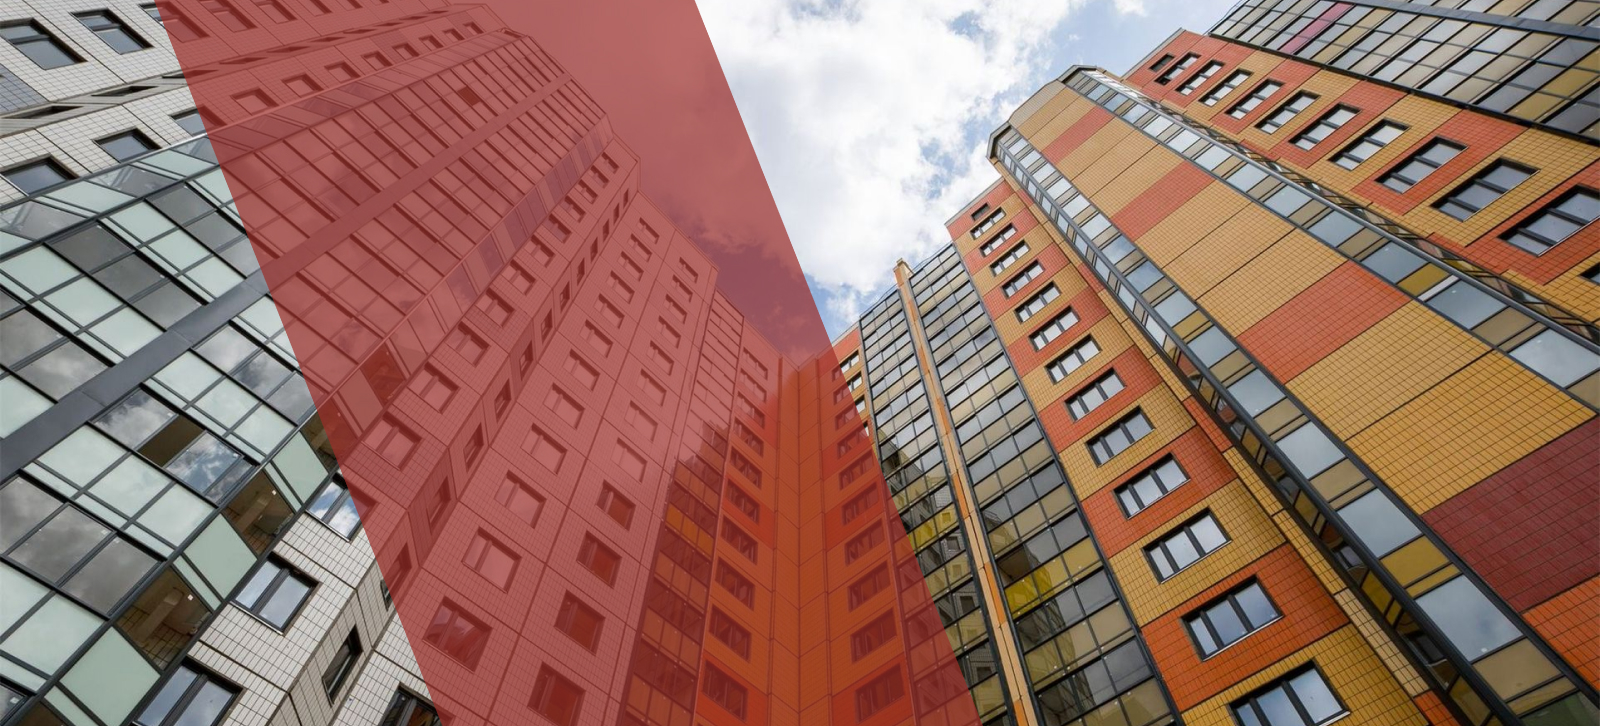
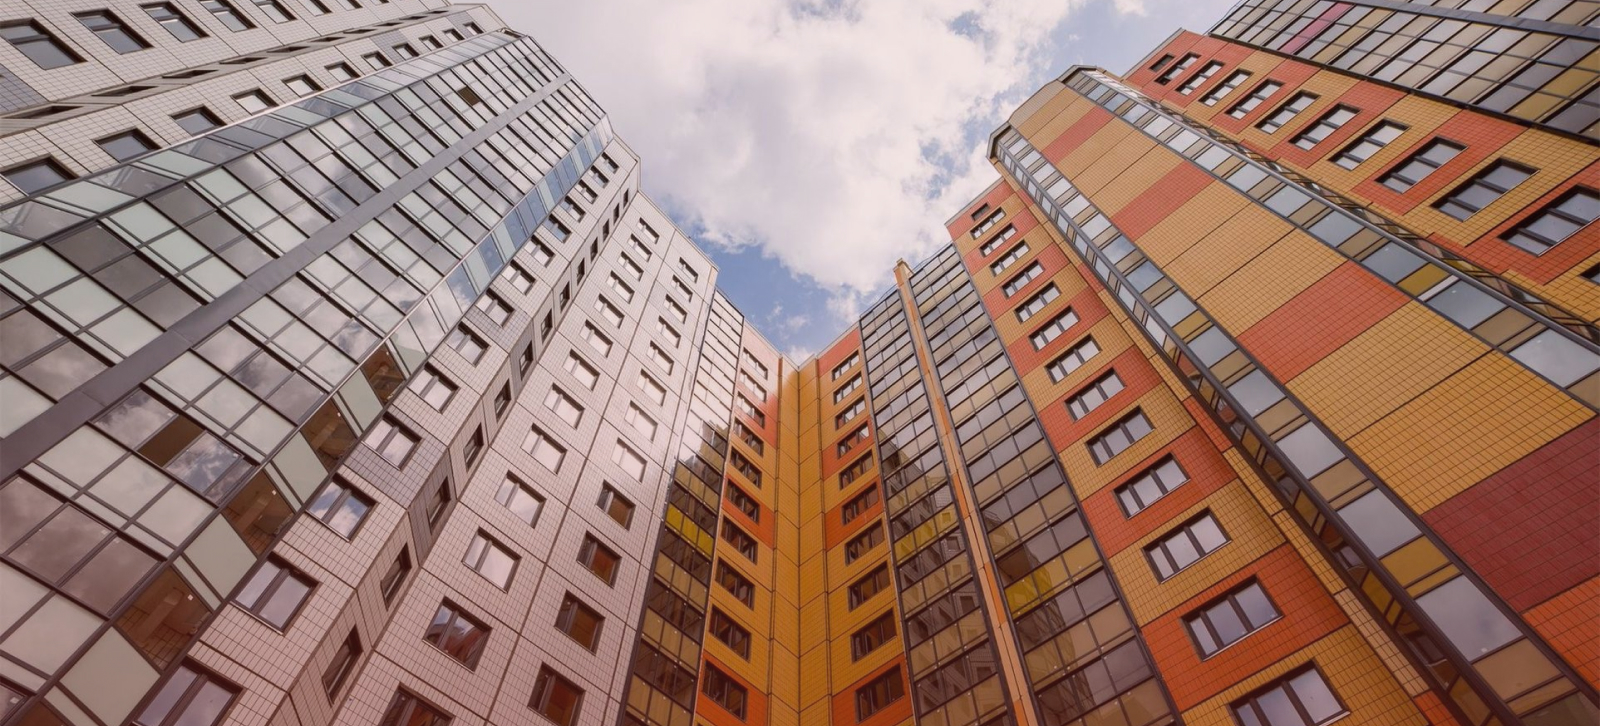
Add files via upload

diff --git a/css/style.min.css b/css/style.min.css
@@ -1,1 +1,1 @@
-@font-face{font-family:"LetoSans";src:url("../fonts/LetoSans-Bold.woff2"),url("../fonts/LetoSans-Bold.woff");font-style:normal;font-weight:700}@font-face{font-family:"LetoSans";src:url("../fonts/LetoSans-Regular.woff2"),url("../fonts/LetoSans-Regular.woff");font-style:normal;font-weight:400}html,body,div,span,object,iframe,h1,h2,h3,h4,h5,h6,p,blockquote,pre,abbr,address,cite,code,del,dfn,em,img,ins,kbd,q,samp,small,strong,sub,sup,var,b,i,dl,dt,dd,ol,ul,li,fieldset,form,label,legend,table,caption,tbody,tfoot,thead,tr,th,td,article,aside,canvas,details,figcaption,figure,footer,header,hgroup,menu,nav,section,summary,time,mark,audio,video{margin:0;padding:0;border:0;outline:0;font-size:100%;vertical-align:baseline;background:rgba(0,0,0,0)}body{line-height:1}article,aside,details,figcaption,figure,footer,header,hgroup,menu,nav,section{display:block}nav ul{list-style:none}blockquote,q{quotes:none}blockquote:before,blockquote:after,q:before,q:after{content:"";content:none}a{margin:0;padding:0;font-size:100%;vertical-align:baseline;background:rgba(0,0,0,0)}ins{background-color:#ff9;color:#000;text-decoration:none}mark{background-color:#ff9;color:#000;font-style:italic;font-weight:bold}del{text-decoration:line-through}abbr[title],dfn[title]{border-bottom:1px dotted;cursor:help}table{border-collapse:collapse;border-spacing:0}hr{display:block;height:1px;border:0;border-top:1px solid #ccc;margin:1em 0;padding:0}input,select{vertical-align:middle}*{-webkit-box-sizing:border-box;box-sizing:border-box}body{font-family:"LetoSans";font-weight:400;font-size:18px;line-height:21px;color:#000}.container{max-width:1200px;margin:0 auto;padding:0 15px}a{text-decoration:none;color:#000;font-size:16px;line-height:19px}.title{font-size:40px;line-height:47px;color:#000;font-weight:400}.header{padding:20px 0 40px}.header .header-top{display:-webkit-box;display:-ms-flexbox;display:flex;-webkit-box-pack:justify;-ms-flex-pack:justify;justify-content:space-between;-webkit-box-align:center;-ms-flex-align:center;align-items:center}.header .header-top__contacts span{margin-right:20px;border-bottom:1px dashed #000}.header .header-top__contacts a{color:#9c2e29}.menu__list{display:-webkit-box;display:-ms-flexbox;display:flex}.menu__list-item+.menu__list-item{margin-left:50px}.menu__list-link{text-transform:uppercase}.dropdown__link{position:relative}.dropdown__link::after{content:"";position:absolute;width:15px;height:5px;background-image:url(../images/header/dropdownArrow.svg);background-repeat:no-repeat;right:-24px;top:50%;-webkit-transform:translateY(-50%);-ms-transform:translateY(-50%);transform:translateY(-50%)}.home{min-height:100vh;background-image:url(../images/header/headerBg.jpg);background-position:center;background-repeat:no-repeat;background-size:cover;position:relative}.home__title{font-weight:700;font-size:35px;line-height:43px;color:#fff;max-width:480px;margin-left:120px}.title__block{position:absolute;top:50%;-webkit-transform:translateY(-50%);-ms-transform:translateY(-50%);transform:translateY(-50%)}.submit__write{cursor:pointer;position:absolute;left:50%;-webkit-transform:translateX(-50%);-ms-transform:translateX(-50%);transform:translateX(-50%);bottom:150px;font-size:16px;line-height:19px;color:#fff;background-color:rgba(0,0,0,0);border:none}.submit__write::after{position:absolute;content:"";width:110px;height:112px;background-image:url(../images/header/btnEllipse.svg);background-repeat:no-repeat;right:-30px;top:50%;-webkit-transform:translateY(-45%);-ms-transform:translateY(-45%);transform:translateY(-45%)}.submit__write::before{content:"";position:absolute;width:156px;height:17px;background-image:url(../images/header/btnArrow.svg);background-repeat:no-repeat;bottom:-8px;left:-15px}.submit__write-black{cursor:pointer;position:absolute;right:-50px;bottom:-100px;-webkit-transform:translateX(-50%);-ms-transform:translateX(-50%);transform:translateX(-50%);font-size:16px;line-height:19px;color:#000;background-color:rgba(0,0,0,0);border:none}.submit__write-black::after{position:absolute;content:"";width:111px;height:112px;background-image:url(../images/products/btnEllipse.svg);background-repeat:no-repeat;right:-30px;top:50%;-webkit-transform:translateY(-45%);-ms-transform:translateY(-45%);transform:translateY(-45%)}.submit__write-black::before{content:"";position:absolute;width:156px;height:17px;background-image:url(../images/products/btnArrow.svg);background-repeat:no-repeat;bottom:-8px;left:-15px}.about{margin-top:120px}.about__title{margin-bottom:94px}.about__title span{color:#9c2e29;font-weight:700;max-width:955px}.about__inner{display:-webkit-box;display:-ms-flexbox;display:flex;-webkit-box-pack:justify;-ms-flex-pack:justify;justify-content:space-between;-webkit-box-align:baseline;-ms-flex-align:baseline;align-items:baseline}.about__item{max-width:215px;font-size:16px;line-height:19px;color:#a6a6a6}.about__item p{margin-top:13px}.products{margin-top:120px}.products__title{margin-bottom:20px}.products__inner{display:-webkit-box;display:-ms-flexbox;display:flex;-webkit-box-pack:justify;-ms-flex-pack:justify;justify-content:space-between;-webkit-box-align:start;-ms-flex-align:start;align-items:flex-start;-ms-flex-wrap:wrap;flex-wrap:wrap}.products__text{letter-spacing:.03em;color:#9c2e29;max-width:1060px;margin-bottom:45px}.products__item{max-width:370px;position:relative;-webkit-box-shadow:0px 0px 30px rgba(0,0,0,.15);box-shadow:0px 0px 30px rgba(0,0,0,.15);overflow:hidden;margin-bottom:20px;border:2px solid rgba(0,0,0,0);-webkit-transition:all .3s;-o-transition:all .3s;transition:all .3s;min-height:375px}.products__item img{max-width:100%}.products__item:hover{border-color:#9c2e29}.products__item-text{background-color:#fff;text-align:left;font-size:20px;line-height:23px;padding:20px 10px;width:102%}.products__item-quote{position:relative;max-width:670px;width:100%;padding-top:50px}.products__item-quote::before{content:"";position:absolute;width:48px;height:45px;background-image:url(../images/products/quotes.svg);background-repeat:no-repeat;top:25px;left:-30px}.products__item-quote__text{max-width:530px;color:#a6a6a6}.products__item-quote__text a{-webkit-text-decoration-line:underline;text-decoration-line:underline;color:#9c2e29}.products__item-quote__text+.products__item-quote__text{margin-top:30px}.slider{margin-top:120px}.slider__inner{display:-webkit-box;display:-ms-flexbox;display:flex;-webkit-box-align:center;-ms-flex-align:center;align-items:center}.slider__content{max-width:525px;margin-left:75px}.slider__content h2{font-weight:700;font-size:45px;line-height:53px;color:#000;margin-bottom:22px}.slider__content h2 span{color:#9c2e29}.slider__content p{color:#a6a6a6}.swiper{width:470px;height:363px}.care{margin-top:120px;background:#9c2e29;color:#fff;padding:70px 0}.care__img{max-width:537px;width:100%;margin-right:90px}.care__img img{max-width:100%;width:100%}.care__inner{display:-webkit-box;display:-ms-flexbox;display:flex;-webkit-box-pack:justify;-ms-flex-pack:justify;justify-content:space-between;-webkit-box-align:center;-ms-flex-align:center;align-items:center}.care__title{font-weight:700;font-size:35px;line-height:41px;margin-bottom:30px}.care p{margin-bottom:30px}.care button{background:rgba(0,0,0,0);padding:17px 53px;border:1px solid #fff;color:#fff;font-size:18px;line-height:21px;border-radius:50px;cursor:pointer}.economy{margin-top:140px}.economy__title{font-weight:400;margin-bottom:95px}.economy__title span{font-weight:700}.economy__inner{display:-webkit-box;display:-ms-flexbox;display:flex;-webkit-box-pack:justify;-ms-flex-pack:justify;justify-content:space-between}.economy__item{max-width:570px;background:#ececec;opacity:.8;padding:50px 50px 20px;position:relative}.economy__item h4{font-weight:700;font-size:25px;position:absolute;line-height:29px;top:-10px;left:120px}.economy__item p{color:#a6a6a6;margin-bottom:25px}.economy__item a{color:#9c2e29}.economy__item-title__credit::before{content:"";position:absolute;background-image:url(../images/economy/homeAndDollar.svg);background-repeat:no-repeat;width:80px;height:78px;left:-84px;top:-30px}.economy__item-title__home::before{content:"";position:absolute;background-image:url(../images/economy/umbrellaAndHome.svg);background-repeat:no-repeat;width:88px;height:78px;left:-100px;top:-30px}.quote{margin-top:120px;min-height:591px;background-image:url(../images/quoteBg.jpg);position:relative;margin-bottom:372px}.quote h2{font-weight:700;font-size:50px;line-height:59px;color:#fff;position:absolute;left:50%;top:50%;-webkit-transform:translate(-50%, -50%);-ms-transform:translate(-50%, -50%);transform:translate(-50%, -50%);max-width:600px;width:100%;text-align:center}.quote h2 span{border-bottom:3px solid #fff}.treaty__inner{display:-webkit-box;display:-ms-flexbox;display:flex;-ms-flex-pack:distribute;justify-content:space-around;-webkit-box-align:center;-ms-flex-align:center;align-items:center}.treaty__inner-text{max-width:590px;font-size:30px;width:100%;line-height:35px;position:relative}.treaty__inner-text::after{content:"";position:absolute;top:50%;-webkit-transform:translateY(-55%);-ms-transform:translateY(-55%);transform:translateY(-55%);right:0;width:375px;height:464px;background-image:url(../images/treaty/home.svg);background-repeat:no-repeat}.treaty__inner-content{max-width:425px}.treaty__inner-content p{font-size:20px;line-height:24px;color:#a6a6a6;margin-bottom:45px}.treaty__inner-content button{padding:13px 31px;font-size:16px;line-height:19px;text-transform:uppercase;color:#fff;background:#9c2e29;border-radius:5px;border:none;cursor:pointer}.form__title{margin-top:358px;text-align:center;margin-bottom:34px}.form{max-width:643px;margin:0 auto;display:-webkit-box;display:-ms-flexbox;display:flex;-webkit-box-orient:vertical;-webkit-box-direction:normal;-ms-flex-direction:column;flex-direction:column}.form__name,.form__tel,.form__city{border:none;border-bottom:2px solid #9c2e29;font-weight:400;font-size:20px;line-height:23px;margin-bottom:50px;padding-bottom:10px;color:#a6a6a6}
+@font-face{font-family:"LetoSans";src:url("../fonts/LetoSans-Bold.woff2"),url("../fonts/LetoSans-Bold.woff");font-style:normal;font-weight:700}@font-face{font-family:"LetoSans";src:url("../fonts/LetoSans-Regular.woff2"),url("../fonts/LetoSans-Regular.woff");font-style:normal;font-weight:400}html,body,div,span,object,iframe,h1,h2,h3,h4,h5,h6,p,blockquote,pre,abbr,address,cite,code,del,dfn,em,img,ins,kbd,q,samp,small,strong,sub,sup,var,b,i,dl,dt,dd,ol,ul,li,fieldset,form,label,legend,table,caption,tbody,tfoot,thead,tr,th,td,article,aside,canvas,details,figcaption,figure,footer,header,hgroup,menu,nav,section,summary,time,mark,audio,video{margin:0;padding:0;border:0;outline:0;font-size:100%;vertical-align:baseline;background:rgba(0,0,0,0)}body{line-height:1}article,aside,details,figcaption,figure,footer,header,hgroup,menu,nav,section{display:block}nav ul{list-style:none}blockquote,q{quotes:none}blockquote:before,blockquote:after,q:before,q:after{content:"";content:none}a{margin:0;padding:0;font-size:100%;vertical-align:baseline;background:rgba(0,0,0,0)}ins{background-color:#ff9;color:#000;text-decoration:none}mark{background-color:#ff9;color:#000;font-style:italic;font-weight:bold}del{text-decoration:line-through}abbr[title],dfn[title]{border-bottom:1px dotted;cursor:help}table{border-collapse:collapse;border-spacing:0}hr{display:block;height:1px;border:0;border-top:1px solid #ccc;margin:1em 0;padding:0}input,select{vertical-align:middle}*{-webkit-box-sizing:border-box;box-sizing:border-box}body{font-family:"LetoSans";font-weight:400;font-size:18px;line-height:21px;color:#000}ul{list-style:none}.container{max-width:1200px;margin:0 auto;padding:0 15px}a{text-decoration:none;color:#000;font-size:16px;line-height:19px}.title{font-size:40px;line-height:47px;color:#000;font-weight:400}.header{padding:20px 0 40px}.header .header-top{display:-webkit-box;display:-ms-flexbox;display:flex;-webkit-box-pack:justify;-ms-flex-pack:justify;justify-content:space-between;-webkit-box-align:center;-ms-flex-align:center;align-items:center}.header .header-top__contacts span{margin-right:20px;border-bottom:1px dashed #000}.header .header-top__contacts a{color:#9c2e29}.menu__list{display:-webkit-box;display:-ms-flexbox;display:flex}.menu__list-item+.menu__list-item{margin-left:50px}.menu__list-link{text-transform:uppercase}.dropdown__link{position:relative}.dropdown__link::after{content:"";position:absolute;width:15px;height:5px;background-image:url(../images/header/dropdownArrow.svg);background-repeat:no-repeat;right:-24px;top:50%;-webkit-transform:translateY(-50%);-ms-transform:translateY(-50%);transform:translateY(-50%)}.home{min-height:100vh;background-image:url(../images/header/headerBg.jpg);background-position:center;background-repeat:no-repeat;background-size:cover;position:relative;overflow:hidden}.home__title{font-size:35px;line-height:43px;color:#fff;max-width:480px;margin-left:120px;font-weight:400}.home__title span{font-weight:700}.red__ribbon{left:170px;z-index:-1;top:-700%;position:absolute;max-width:545px;width:100%;height:2000%;background:rgba(156,46,41,.7);-webkit-transform:rotate(-15deg);-ms-transform:rotate(-15deg);transform:rotate(-15deg)}.title__block{position:absolute;top:50%;-webkit-transform:translateY(-50%);-ms-transform:translateY(-50%);transform:translateY(-50%)}.submit__write{cursor:pointer;position:absolute;left:50%;-webkit-transform:translateX(-50%);-ms-transform:translateX(-50%);transform:translateX(-50%);bottom:150px;font-size:16px;line-height:19px;color:#fff;background-color:rgba(0,0,0,0);border:none}.submit__write::after{position:absolute;content:"";width:110px;height:112px;background-image:url(../images/header/btnEllipse.svg);background-repeat:no-repeat;right:-30px;top:50%;-webkit-transform:translateY(-45%);-ms-transform:translateY(-45%);transform:translateY(-45%)}.submit__write::before{content:"";position:absolute;width:156px;height:17px;background-image:url(../images/header/btnArrow.svg);background-repeat:no-repeat;bottom:-8px;left:-15px}.submit__write-black{cursor:pointer;position:absolute;right:-50px;bottom:-100px;-webkit-transform:translateX(-50%);-ms-transform:translateX(-50%);transform:translateX(-50%);font-size:16px;line-height:19px;color:#000;background-color:rgba(0,0,0,0);border:none}.submit__write-black::after{position:absolute;content:"";width:111px;height:112px;background-image:url(../images/products/btnEllipse.svg);background-repeat:no-repeat;right:-30px;top:50%;-webkit-transform:translateY(-45%);-ms-transform:translateY(-45%);transform:translateY(-45%)}.submit__write-black::before{content:"";position:absolute;width:156px;height:17px;background-image:url(../images/products/btnArrow.svg);background-repeat:no-repeat;bottom:-8px;left:-15px}.about{margin-top:120px}.about__title{margin-bottom:94px}.about__title span{color:#9c2e29;font-weight:700;max-width:955px}.about__inner{display:-webkit-box;display:-ms-flexbox;display:flex;-webkit-box-pack:justify;-ms-flex-pack:justify;justify-content:space-between;-webkit-box-align:baseline;-ms-flex-align:baseline;align-items:baseline}.about__item{max-width:215px;font-size:16px;line-height:19px;color:#a6a6a6}.about__item p{margin-top:13px}.products{margin-top:120px}.products__title{margin-bottom:20px}.products__inner{display:-webkit-box;display:-ms-flexbox;display:flex;-webkit-box-pack:justify;-ms-flex-pack:justify;justify-content:space-between;-webkit-box-align:start;-ms-flex-align:start;align-items:flex-start;-ms-flex-wrap:wrap;flex-wrap:wrap}.products__text{letter-spacing:.03em;color:#9c2e29;max-width:1060px;margin-bottom:45px}.products__item{max-width:370px;position:relative;-webkit-box-shadow:0px 0px 30px rgba(0,0,0,.15);box-shadow:0px 0px 30px rgba(0,0,0,.15);overflow:hidden;margin-bottom:20px;border:2px solid rgba(0,0,0,0);-webkit-transition:all .3s;-o-transition:all .3s;transition:all .3s;min-height:375px}.products__item img{max-width:100%}.products__item:hover{border-color:#9c2e29}.products__item-text{background-color:#fff;text-align:left;font-size:20px;line-height:23px;padding:20px 10px;width:102%}.products__item-quote{position:relative;max-width:670px;width:100%;padding-top:50px}.products__item-quote__text{max-width:530px;color:#a6a6a6}.products__item-quote__text a{-webkit-text-decoration-line:underline;text-decoration-line:underline;color:#9c2e29}.products__item-quote__text+.products__item-quote__text{margin-top:30px}.slider{margin-top:120px}.slider__inner{display:-webkit-box;display:-ms-flexbox;display:flex;-webkit-box-align:center;-ms-flex-align:center;align-items:center}.slider__content{max-width:525px;margin-left:75px}.slider__content h2{font-weight:700;font-size:45px;line-height:53px;color:#000;margin-bottom:22px}.slider__content h2 span{color:#9c2e29}.slider__content p{color:#a6a6a6}.swiper{width:470px;height:363px}.care{margin-top:120px;background:#9c2e29;color:#fff;padding:70px 0}.care__img{max-width:537px;width:100%;margin-right:90px}.care__img img{max-width:100%;width:100%}.care__inner{display:-webkit-box;display:-ms-flexbox;display:flex;-webkit-box-pack:justify;-ms-flex-pack:justify;justify-content:space-between;-webkit-box-align:center;-ms-flex-align:center;align-items:center}.care__title{font-weight:700;font-size:35px;line-height:41px;margin-bottom:30px}.care p{margin-bottom:30px}.care button{background:rgba(0,0,0,0);padding:17px 53px;border:1px solid #fff;color:#fff;font-size:18px;line-height:21px;border-radius:50px;cursor:pointer}.economy{margin-top:140px}.economy__title{font-weight:400;margin-bottom:95px}.economy__title span{font-weight:700}.economy__inner{display:-webkit-box;display:-ms-flexbox;display:flex;-webkit-box-pack:justify;-ms-flex-pack:justify;justify-content:space-between}.economy__item{max-width:570px;background:#ececec;opacity:.8;padding:50px 50px 20px;position:relative}.economy__item h4{font-weight:700;font-size:25px;position:absolute;line-height:29px;top:-10px;left:120px}.economy__item p{color:#a6a6a6;margin-bottom:25px}.economy__item a{color:#9c2e29}.economy__item-title__credit::before{content:"";position:absolute;background-image:url(../images/economy/homeAndDollar.svg);background-repeat:no-repeat;width:80px;height:78px;left:-84px;top:-30px}.economy__item-title__home::before{content:"";position:absolute;background-image:url(../images/economy/umbrellaAndHome.svg);background-repeat:no-repeat;width:88px;height:78px;left:-100px;top:-30px}.quote{margin-top:120px;min-height:591px;background-image:url(../images/quoteBg.jpg);position:relative;margin-bottom:372px}.quote h2{font-weight:700;font-size:50px;line-height:59px;color:#fff;position:absolute;left:50%;top:50%;-webkit-transform:translate(-50%, -50%);-ms-transform:translate(-50%, -50%);transform:translate(-50%, -50%);max-width:600px;width:100%;text-align:center}.quote h2 span{border-bottom:3px solid #fff}.treaty__inner{display:-webkit-box;display:-ms-flexbox;display:flex;-ms-flex-pack:distribute;justify-content:space-around;-webkit-box-align:center;-ms-flex-align:center;align-items:center}.treaty__inner-text{max-width:590px;font-size:30px;width:100%;line-height:35px;position:relative}.treaty__inner-text::after{content:"";position:absolute;top:50%;-webkit-transform:translateY(-55%);-ms-transform:translateY(-55%);transform:translateY(-55%);right:0;width:375px;height:470px;background-image:url(../images/treaty/home.svg);background-repeat:no-repeat}.treaty__inner-content{max-width:425px}.treaty__inner-content p{font-size:20px;line-height:24px;color:#a6a6a6;margin-bottom:45px}.treaty__inner-content button{padding:13px 31px;font-size:16px;line-height:19px;text-transform:uppercase;color:#fff;background:#9c2e29;border-radius:5px;border:none;cursor:pointer}.form__title{margin-top:358px;text-align:center;margin-bottom:34px}.form{max-width:643px;margin:0 auto;display:-webkit-box;display:-ms-flexbox;display:flex;-webkit-box-orient:vertical;-webkit-box-direction:normal;-ms-flex-direction:column;flex-direction:column}.form__name,.form__tel,.form__city,.form__message{border:none;border-bottom:2px solid #9c2e29;font-weight:400;font-size:20px;line-height:23px;margin-bottom:50px;padding-bottom:10px;color:#a6a6a6}#file{width:.1px;height:.1px;opacity:0;overflow:hidden;position:absolute;z-index:-1}.file__block{width:100%;padding:25px;border:1px dashed #000;text-align:center}.file__label{display:-webkit-box;display:-ms-flexbox;display:flex;-webkit-box-align:center;-ms-flex-align:center;align-items:center;-webkit-box-pack:center;-ms-flex-pack:center;justify-content:center;cursor:pointer}.file__label span{margin-left:25px;font-size:25px;line-height:29px}.form__warning{max-width:475px;margin:0 auto;margin-top:30px;text-align:center;font-size:20px;line-height:23px;margin-bottom:37px}.form__warning span{font-weight:700}.form__warning a{-webkit-text-decoration-line:underline;text-decoration-line:underline;color:#9c2e29;font-size:20px;line-height:23px}.form__btn{font-size:16px;line-height:19px;cursor:pointer;text-transform:uppercase;max-width:270px;width:100%;color:#fff;background:#9c2e29;border-radius:5px;padding:13px 0;margin:0 auto;border:none}.footer{padding:60px 0;margin-top:170px;background:#f7f6f5}.footer__top-inner{display:-webkit-box;display:-ms-flexbox;display:flex;-webkit-box-pack:justify;-ms-flex-pack:justify;justify-content:space-between}.footer__top-inner h2{font-weight:700;font-size:25px;line-height:29px;color:#000;margin-bottom:25px}.footer__top-inner h2 span{color:#9c2e29}.footer__info-item{max-width:260px}.footer__info-item p{font-size:20px;line-height:23px;letter-spacing:.04em;text-transform:uppercase;color:#a6a6a6}.footer__list{display:-webkit-box;display:-ms-flexbox;display:flex;-webkit-box-align:center;-ms-flex-align:center;align-items:center}.footer__list a{font-size:18px;line-height:21px;color:#000}.footer__list-item+.footer__list-item{margin-left:35px}.time__working{max-width:180px;text-align:left;width:100%}.time__working p{margin-top:20px}.social__links{display:-webkit-box;display:-ms-flexbox;display:flex;-webkit-box-pack:center;-ms-flex-pack:center;justify-content:center;-webkit-box-align:center;-ms-flex-align:center;align-items:center;margin-top:75px}.social__links li+li{margin-left:25px}.footer__bottom{font-size:8px;line-height:9px;color:#a6a6a6;display:-webkit-box;display:-ms-flexbox;display:flex;-webkit-box-pack:center;-ms-flex-pack:center;justify-content:center;-webkit-box-align:center;-ms-flex-align:center;align-items:center;margin-top:50px}.footer__bottom p{max-width:855px;margin-left:15px}

diff --git a/index.html b/index.html
@@ -50,9 +50,12 @@
     <section class="home">
         <div class="container"> 
             <div class="title__block">
+                <div class="red__ribbon">
+
+                </div>
                 <h1 class="home__title">
                     Строим, ремонтируем 
-                    и обслуживаем жилые многоквартирные дома
+                    и обслуживаем <span>жилые многоквартирные дома</span> 
                 </h1>
             </div>
                 
@@ -230,14 +233,58 @@
                 <input placeholder="Имя" type="text" class="form__name">
                 <input placeholder="Телефон" type="tel" class="form__tel">
                 <input placeholder="Город" type="text" class="form__city">
-                <div class="form__date-time">
-                    <input type="date">
-                    <input type="time">
+                <input placeholder="Ваше сообщение" type="text" class="form__message">
+                <div class="file__block">
+                    <input id="file" name="file" placeholder="Прикрепить файл" class="form__file" type="file">
+                    <label class="file__label" for="file"> <img src="images/form/plus.svg" alt=""> <span>Прикрепить файл</span></label>
                 </div>
-                <input type="file">
+                <p class="form__warning">
+                    <span>Внимание!</span> Все поля обязательны для заполнения.
+    Отправляя форму, вы соглашаетесь с <a href="#">Политикой обработки данных</a>
+    
+                </p>
+                <button type="submit" class="form__btn">Отправить заявку</button>
             </form>
+            
         </div>
     </section>
+
+    <footer class="footer">
+        <div class="container">
+            <div class="footer__top-inner">
+                <div class="footer__info-item">
+                    <h2 class="footer__title">
+                        Жилищно строительная  компания <span>ЛИДЕР</span>  
+                    </h2>
+                    <p>Щемиловский 16 стр 2, офис 37-40</p>
+                </div>
+                <div class="footer__nav-item">
+                    <ul class="footer__list">
+                        <li class="footer__list-item"><a href="#">Главная</a></li>
+                        <li class="footer__list-item"><a href="#">Услуги</a></li>
+                        <li class="footer__list-item"><a href="#">О компании</a></li>
+                        <li class="footer__list-item"><a href="#">Контакты</a></li>
+                    </ul>
+                    <ul class="social__links">
+                        <li><a href="#" class="telegram__link"><img src="images/footer/telegram.png" alt="telegram"></a></li>
+                        <li><a href="#" class="whats__link"><img src="images/footer/whats.png" alt="whats"></a></li>
+                        <li><a href="#" class="email__link"><img src="images/footer/email.png" alt="email"></a></li>
+                        <li><a href="#" class="viber__link"><img src="images/footer/viber.png" alt="viber"></a></li>
+                    </ul>
+                </div>
+                <div class="time__working">
+                    <img src="images/footer/clock.svg" alt="clock">
+                    <p>ПН-ПТ 10:00-18:00
+                        СБ-ВС Выходной</p>
+                </div>
+            </div>
+            <div class="footer__bottom">
+                <a href="#" class="header-top__logo"><img src="images/logo.png" width="175"  height="95" alt="logo"></a>
+                <p class="footer__bottom-text">© ЖСК ЛИДЕР, 2022. Все материалы данного сайта являются объектами авторского права (в том числе дизайн). Запрещается копирование, распространение (в том числе путем копирования на другие сайты и ресурсы в Интернете) или любое иное использование информации и объектов без предварительного согласия правообладателя. Сайт не является публичной офертой. Условия и стоимость предложения могут быть скорректированы. Ознакомиться с актуальными условиями можно на сайте или по телефону.</p>
+            </div>
+        </div>
+        
+    </footer>
 
     <script src="https://cdn.jsdelivr.net/npm/swiper@8/swiper-bundle.min.js"></script>
     <script src="js/main.min.js"></script>

diff --git a/scss/style.scss b/scss/style.scss
@@ -13,6 +13,10 @@ body {
     color: #000000;
 }
 
+ul {
+    list-style: none;
+}
+
 .container {
     max-width: 1200px;
     margin: 0 auto;
@@ -85,14 +89,30 @@ a {
     background-repeat: no-repeat;
     background-size: cover;
     position: relative;
+    overflow: hidden;
     &__title {
-        font-weight: 700;
         font-size: 35px;
         line-height: 43px;
         color: #FFFFFF;
         max-width: 480px;
         margin-left: 120px;
+        font-weight: 400;
+        span {
+            font-weight: 700;
+        }
     }
+}
+
+.red__ribbon {
+    left: 170px;
+    z-index: -1;
+    top: -700%;
+    position: absolute;
+    max-width: 545px;
+    width: 100%;
+    height: 2000%;
+    background: rgba(156, 46, 41, 0.7);
+    transform: rotate(-15deg);
 }
 
 
@@ -249,17 +269,7 @@ a {
     max-width: 670px;
     width: 100%;
     padding-top: 50px;
-    &::before {
-        content: '';
-        position: absolute;
-        width: 48px;
-        height: 45px;
-        background-image: url(../images/products/quotes.svg);
-        background-repeat: no-repeat;
-        top: 25px;
-        left: -30px;
-    
-    }
+   
     &__text {
         max-width: 530px;
         color: #A6A6A6;
@@ -451,7 +461,7 @@ a {
                 transform: translateY(-55%);
                 right: 0;
                 width: 375px;
-                height: 464px;
+                height: 470px;
                 background-image: url(../images/treaty/home.svg);
                 background-repeat: no-repeat;
             }
@@ -496,7 +506,8 @@ a {
 
 .form__name,
 .form__tel,
-.form__city {
+.form__city,
+.form__message {
     border: none;
     border-bottom: 2px solid #9C2E29;
     font-weight: 400;
@@ -505,4 +516,146 @@ line-height: 23px;
 margin-bottom: 50px;
 padding-bottom: 10px;
 color: #A6A6A6;
+}
+
+#file {
+    width: 0.1px;
+    height: 0.1px;
+    opacity: 0;
+    overflow: hidden;
+    position: absolute;
+    z-index: -1;
+}
+
+.file__block {
+    width: 100%;
+    padding: 25px;
+    border: 1px dashed #000000;
+    text-align: center;
+
+}
+
+.file__label {
+    display: flex;
+    align-items: center;
+    justify-content: center;
+    cursor: pointer;
+    span {
+        margin-left: 25px;
+        font-size: 25px;
+line-height: 29px;
+    }
+}
+
+.form__warning {
+    max-width: 475px;
+    margin: 0 auto;
+    margin-top: 30px;
+    text-align: center;
+    font-size: 20px;
+    line-height: 23px;
+    margin-bottom: 37px;
+    span {
+        font-weight: 700;
+    }
+    a {
+        text-decoration-line: underline;
+        color: #9C2E29;
+        font-size: 20px;
+        line-height: 23px;
+    }
+}
+
+.form__btn {
+    font-size: 16px;
+    line-height: 19px;
+    cursor: pointer;
+    text-transform: uppercase;
+    max-width: 270px;
+    width: 100%;
+    color: #FFFFFF;
+    background: #9C2E29;
+    border-radius: 5px;
+    padding: 13px 0;
+    margin: 0 auto;
+    border: none;
+}
+
+
+.footer {
+    padding: 60px 0;
+    margin-top: 170px;
+    background: #F7F6F5;
+    &__top-inner {
+        display: flex;
+        justify-content: space-between;
+        h2 {
+            font-weight: 700;
+            font-size: 25px;
+            line-height: 29px;
+            color: #000000;
+           
+            margin-bottom: 25px;
+            span {
+                color: #9C2E29;
+  
+            }
+        }
+    }
+    &__info-item {
+        max-width: 260px;
+        p {
+            font-size: 20px;
+            line-height: 23px;
+            letter-spacing: 0.04em;
+            text-transform: uppercase;
+            color: #A6A6A6;
+        }
+    }
+    &__list {
+        display: flex;
+        align-items: center;
+        a {
+            font-size: 18px;
+            line-height: 21px;
+            color: #000000;
+        }
+        &-item + &-item {
+            margin-left: 35px;
+        }
+    }
+}
+
+.time__working {
+    max-width: 180px;
+    text-align: left;
+    width: 100%;
+    p {
+        margin-top: 20px;
+    }
+}
+
+.social__links {
+    display: flex;
+    justify-content: center;
+    align-items: center;
+    margin-top: 75px;
+    li + li {
+
+        margin-left: 25px;
+    }
+}
+
+.footer__bottom {
+    font-size: 8px;
+    line-height: 9px;
+    color: #A6A6A6;
+    display: flex;
+    justify-content: center;
+    align-items: center;
+    margin-top: 50px;
+    p {
+        max-width: 855px;
+        margin-left: 15px;
+    }
 }
